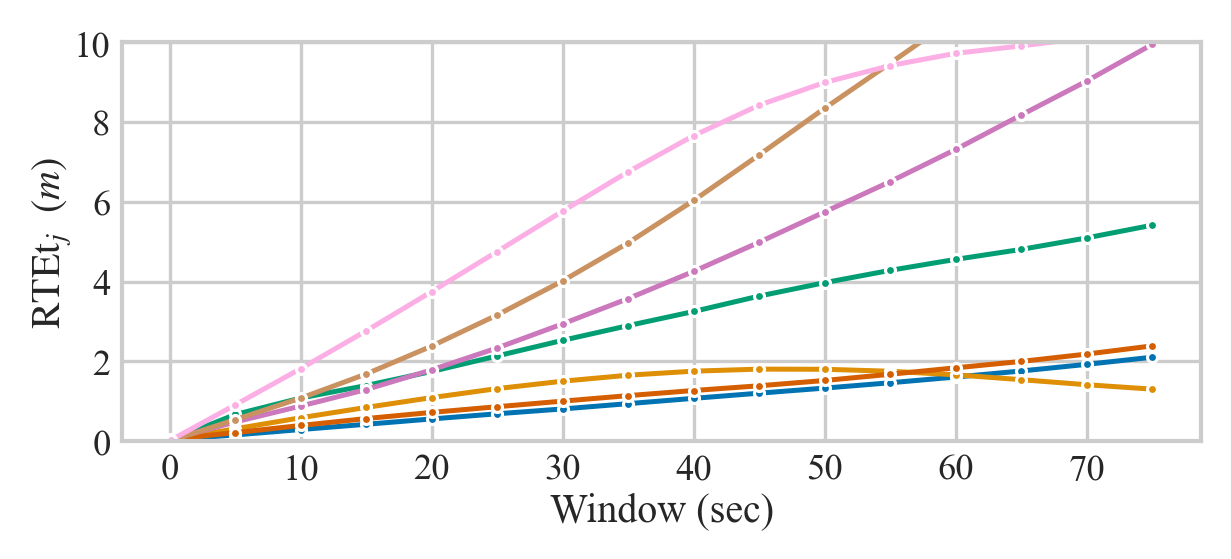
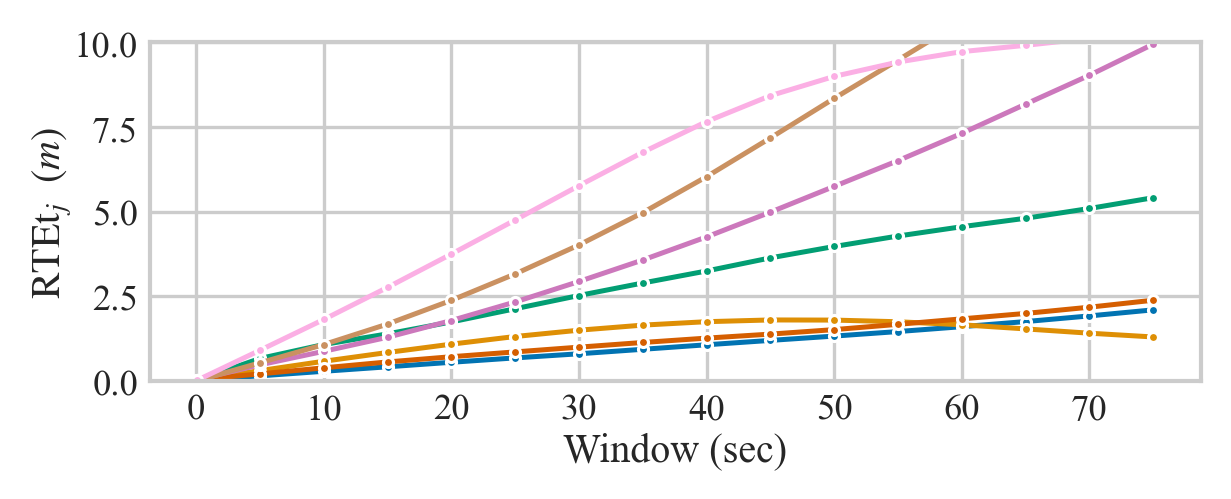
Tweaked all figures before submission

Changed region(s): [[0.0, 0.0601, 0.9878, 0.9319]]

diff --git a/experiments/pseudo.py b/experiments/pseudo.py
@@ -24,7 +24,7 @@ def run(num_threads: int):
         Initialization.GroundTruth,
     ]
 
-    epsilon = np.linspace(0.0, 1.0, 11)
+    epsilon: list[float] = np.linspace(0.0, 1.0, 11).tolist()
 
     datasets = [d for d in SUBSET_TRAJ if ("new" in d or "oxford" in d or "multi" in d)]
 
@@ -46,29 +46,25 @@ def run(num_threads: int):
 def plot(name: str, force: bool):
     palette = setup_plot()
 
-    good = [
-        "Newer College Stereo-Cam",
-        "Newer College Multi-Cam",
-        "Multi-Campus",
-        "Oxford Spires",
-        # "Botanic Garden",
-        # "Hilti 2022",
-    ]
+    first = "Newer College Stereo-Cam"
+    second = "Multi-Campus"
+    # first = "Oxford Spires"
+    # first = "Newer College Multi-Cam"
 
     df = compute_cache_stats(dir, force=force)
-    df = df.filter(pl.col("Dataset").is_in(good))
+    # df = df.filter(pl.col("Initialization").eq("Constant Velocity"))
 
     fig, ax = plt.subplots(
         1,
-        1,
-        figsize=(COL_WIDTH + 0.5, 2.0),
+        2,
+        figsize=(COL_WIDTH + 0.5, 1.3),
         layout="constrained",
-        sharey=False,
-        sharex=True,
+        sharey=True,
+        sharex=False,
     )
     sns.lineplot(
-        df,
-        ax=ax,
+        df.filter(pl.col("Dataset").eq(first)),
+        ax=ax[0],
         x="pseudo_planar_epsilon",
         y="w100_RTEt",
         hue="Dataset",
@@ -78,16 +74,33 @@ def plot(name: str, force: bool):
         dashes=False,
         palette=palette,
     )
+    sns.lineplot(
+        df.filter(pl.col("Dataset").eq(second)),
+        ax=ax[1],
+        x="pseudo_planar_epsilon",
+        y="w100_RTEt",
+        hue="Dataset",
+        style="Initialization",
+        markers=["s", "X", "o", "P"],
+        style_order=["Identity", "Constant Velocity", "IMU", "Ground Truth"],
+        dashes=False,
+        palette=palette,
+        legend=False,
+    )
+
     # Reorder the legend to put blank one in the right spot
-    handles, labels = ax.get_legend_handles_labels()
+    handles, labels = ax[0].get_legend_handles_labels()
     handles = handles[-4:]
     labels = labels[-4:]
 
-    ax.tick_params(axis="x", pad=-1)
-    ax.tick_params(axis="y", pad=-1)
-    ax.set_xlabel(r"$\epsilon$", labelpad=1)
-    ax.set_ylabel(r"$RTEt_{10}\ (m)$", labelpad=2)
-    ax.legend().set_visible(False)
+    # ax[0].set_yscale("log")
+
+    for i in range(2):
+        ax[i].tick_params(axis="x", pad=-2)
+        ax[i].tick_params(axis="y", pad=-1)
+        ax[i].set_xlabel(r"$\epsilon$", labelpad=0)
+    ax[0].set_ylabel(r"$RTEt_{10}\ (m)$", labelpad=2)
+    ax[0].legend().set_visible(False)
 
     leg = fig.legend(
         handles=handles,
@@ -97,7 +110,7 @@ def plot(name: str, force: bool):
         labelspacing=0.15,
         loc="outside upper left",
         columnspacing=10.6,
-        bbox_to_anchor=(0.07, 1.20),
+        bbox_to_anchor=(0.072, 1.32),
     ).get_frame()
     leg.set_boxstyle("square")  # type: ignore
     leg.set_linewidth(1.0)

diff --git a/experiments/features.py b/experiments/features.py
@@ -64,7 +64,7 @@ def plot_feature_comp(name: str, force: bool):
     df = compute_cache_stats(dir, force=force)
 
     # compute percent improvement
-    metric = "w100_RTEr"
+    metric = "w100_RTEt"
     df = df.with_columns(percent=pl.zeros(df.shape[0]))
 
     features = [
@@ -97,7 +97,7 @@ def plot_feature_comp(name: str, force: bool):
     fig, ax = plt.subplots(
         1,
         1,
-        figsize=(COL_WIDTH + 0.5, 2.0),
+        figsize=(COL_WIDTH + 0.5, 1.85),
         layout="constrained",
         sharey=True,
         sharex=True,
@@ -128,7 +128,7 @@ def plot_feature_comp(name: str, force: bool):
     labels = labels[-len(features) :]
 
     ax.legend().set_visible(False)
-    ax.set_ylabel(r"$\text{RTEt}_{10}$ Change (%)", labelpad=3)
+    ax.set_ylabel(r"$\text{RTEt}_{10}$ Change (%)", labelpad=0)
 
     traj = df.select("Trajectory").unique().to_numpy()
     xmax = len(traj) - 1
@@ -136,7 +136,11 @@ def plot_feature_comp(name: str, force: bool):
     ax.tick_params(axis="x", pad=-3, rotation=90, labelsize=7)
     ax.tick_params(axis="y", pad=-2.4)
     ax.set_xlim(0.0 - extra, xmax + extra)
-    ax.set_ylim(-60, 150.0)
+    ax.set_yscale("symlog", linthresh=100.0, linscale=1.0)
+    ax.set_ylim(-120, 700)
+    # set custom axis ticks
+    ticks = [-100, 0, 100, 500]
+    ax.set_yticks(ticks, [str(t) for t in ticks])
 
     leg = fig.legend(
         handles=handles,
@@ -145,8 +149,8 @@ def plot_feature_comp(name: str, force: bool):
         borderpad=0.2,
         labelspacing=0.15,
         loc="outside upper left",
-        columnspacing=4.75,
-        bbox_to_anchor=(0.1055, 1.11),
+        columnspacing=4.78,
+        bbox_to_anchor=(0.103, 1.145),
     ).get_frame()
     leg.set_boxstyle("square")  # type: ignore
     leg.set_linewidth(1.0)
@@ -157,7 +161,7 @@ def plot_point_init(name: str, force: bool):
     df = compute_cache_stats(dir, force=force)
 
     # compute percent improvement
-    metric = "w100_RTEr"
+    metric = "w100_RTEt"
     df = df.with_columns(percent=pl.zeros(df.shape[0]))
 
     features = [
@@ -190,7 +194,7 @@ def plot_point_init(name: str, force: bool):
     fig, ax = plt.subplots(
         1,
         1,
-        figsize=(COL_WIDTH + 0.5, 2.0),
+        figsize=(COL_WIDTH + 0.5, 1.85),
         layout="constrained",
         sharey=True,
         sharex=True,
@@ -238,7 +242,7 @@ def plot_point_init(name: str, force: bool):
         labelspacing=0.15,
         loc="outside upper left",
         columnspacing=4.75,
-        bbox_to_anchor=(0.1055, 1.13),
+        bbox_to_anchor=(0.1055, 1.15),
     ).get_frame()
     leg.set_boxstyle("square")  # type: ignore
     leg.set_linewidth(1.0)

diff --git a/src/run.py b/src/run.py
@@ -221,9 +221,7 @@ def run(
             step_pose = loam.registerFeatures(
                 curr_feat, prev_feat, init, params=rp, detail=detail
             )
-            # print(len(detail.iteration_info[-1].plane_associations))
             step_pose = convert(step_pose)
-            # quit()
 
             # Also skipping iter_gt to not compound bad results if failed
             iter_gt = iter_gt * step_gt
@@ -328,33 +326,18 @@ def run_multithreaded(
 
 
 if __name__ == "__main__":
-    dataset = "multi_campus_2024/tuhh_day_04"
+    dataset = "oxford_spires/blenheim_palace_05"
 
     eps = [
         params.ExperimentParams(
-            name="testing",
+            name="cv",
             dataset=dataset,
-            init=params.Initialization.GroundTruth,
-            dewarp=params.Dewarp.Identity,
-            features=[params.Feature.Planar],
-        ),
-        # params.ExperimentParams(
-        #     name="min_0.5_cv",
-        #     dataset=dataset,
-        #     init=params.Initialization.GroundTruth,
-        #     dewarp=params.Dewarp.ConstantVelocity,
-        #     features=[params.Feature.Planar, params.Feature.Edge],
-        # ),
-        # params.ExperimentParams(
-        #     name="min_0.5_imu",
-        #     dataset=dataset,
-        #     init=params.Initialization.GroundTruth,
-        #     dewarp=params.Dewarp.Imu,
-        #     features=[params.Feature.Planar, params.Feature.Edge],
-        # ),
+            init=params.Initialization.ConstantVelocity,
+            features=[params.Feature.Planar, params.Feature.Edge],
+        )
     ]
 
-    directory = Path("results/25.02.25_multi_gt")
+    directory = Path("results/25.02.27_oxford_test")
     length = 3000
     multithreaded = False
 
@@ -362,4 +345,4 @@ if __name__ == "__main__":
         run_multithreaded(eps, directory, length=length)
     else:
         for e in eps:
-            run(e, directory, visualize=False, length=length)
+            run(e, directory, visualize=True, length=length)

diff --git a/experiments/plane_plane.py b/experiments/plane_plane.py
@@ -56,7 +56,7 @@ def plot(name: str, force: bool):
     fig, ax = plt.subplots(
         1,
         1,
-        figsize=(COL_WIDTH + 0.5, 2.0),
+        figsize=(COL_WIDTH + 0.5, 1.7),
         layout="constrained",
         sharey=False,
         sharex=True,
@@ -97,8 +97,8 @@ def plot(name: str, force: bool):
         borderpad=0.2,
         labelspacing=0.15,
         loc="outside upper left",
-        columnspacing=9.9,
-        bbox_to_anchor=(0.1055, 1.13),
+        columnspacing=9.85,
+        bbox_to_anchor=(0.1055, 1.17),
     ).get_frame()
     leg.set_boxstyle("square")  # type: ignore
     leg.set_linewidth(1.0)

diff --git a/experiments/init.py b/experiments/init.py
@@ -41,7 +41,7 @@ def plot(name: str, force: bool):
     fig, ax = plt.subplots(
         1,
         1,
-        figsize=(COL_WIDTH + 0.5, 2.0),
+        figsize=(COL_WIDTH + 0.5, 1.8),
         layout="constrained",
         sharey=False,
         sharex=True,
@@ -88,7 +88,7 @@ def plot(name: str, force: bool):
         labelspacing=0.15,
         loc="outside upper left",
         columnspacing=3.75,
-        bbox_to_anchor=(0.09, 1.14),
+        bbox_to_anchor=(0.091, 1.155),
     ).get_frame()
     leg.set_boxstyle("square")  # type: ignore
     leg.set_linewidth(1.0)

diff --git a/src/stats.py b/src/stats.py
@@ -426,6 +426,7 @@ def compute_cache_stats(directory: Path, force: bool = False) -> pl.DataFrame:
             "Identity": "Identity",
             "ConstantVelocity": "Constant Velocity",
             "Imu": "IMU",
+            "GroundTruth": "Ground Truth",
         }
         df = df.with_columns(
             pl.col("init").replace(init_pretty_names).alias("Initialization")

diff --git a/experiments/curvature.py b/experiments/curvature.py
@@ -117,8 +117,8 @@ def plot_classic(name: str, force: bool):
         borderpad=0.2,
         labelspacing=0.15,
         loc="outside upper left",
-        columnspacing=3.35,
-        bbox_to_anchor=(0.09, 1.155),
+        columnspacing=3.3,
+        bbox_to_anchor=(0.091, 1.155),
     ).get_frame()
     leg.set_boxstyle("square")  # type: ignore
     leg.set_linewidth(1.0)

diff --git a/experiments/window.py b/experiments/window.py
@@ -120,7 +120,7 @@ def plot(name: str, force: bool):
     else:
         df = pl.read_csv(df_file)
 
-    fig, ax = plt.subplots(1, 1, figsize=(COL_WIDTH + 0.5, 1.75), layout="constrained")
+    fig, ax = plt.subplots(1, 1, figsize=(COL_WIDTH + 0.5, 1.55), layout="constrained")
     sns.lineplot(
         df,
         x="window",

diff --git a/experiments/dewarp.py b/experiments/dewarp.py
@@ -101,7 +101,7 @@ def plot(name: str, force: bool):
         labelspacing=0.15,
         loc="outside upper left",
         columnspacing=4.0,
-        bbox_to_anchor=(0.105, 1.12),
+        bbox_to_anchor=(0.106, 1.122),
     ).get_frame()
     leg.set_boxstyle("square")  # type: ignore
     leg.set_linewidth(1.0)
